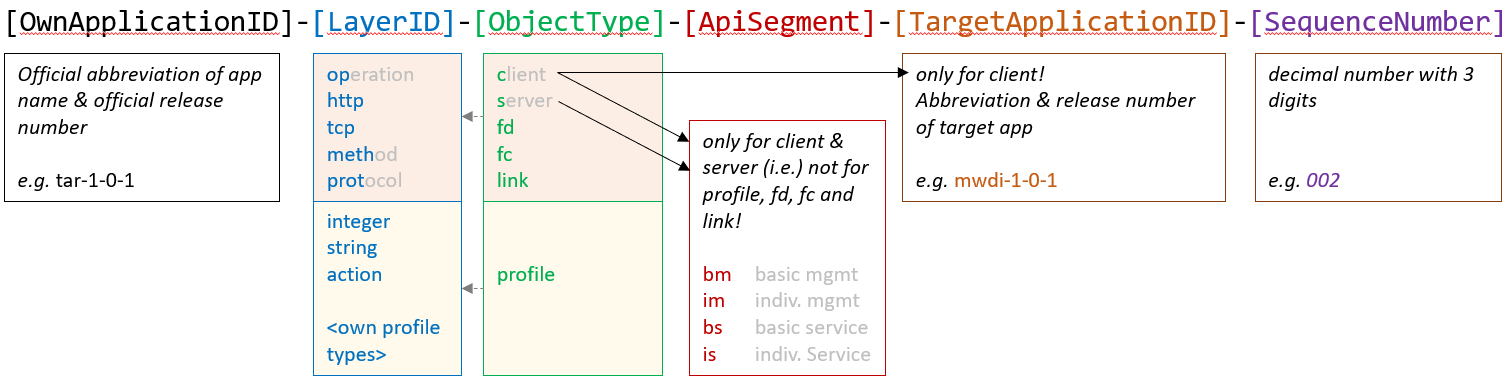
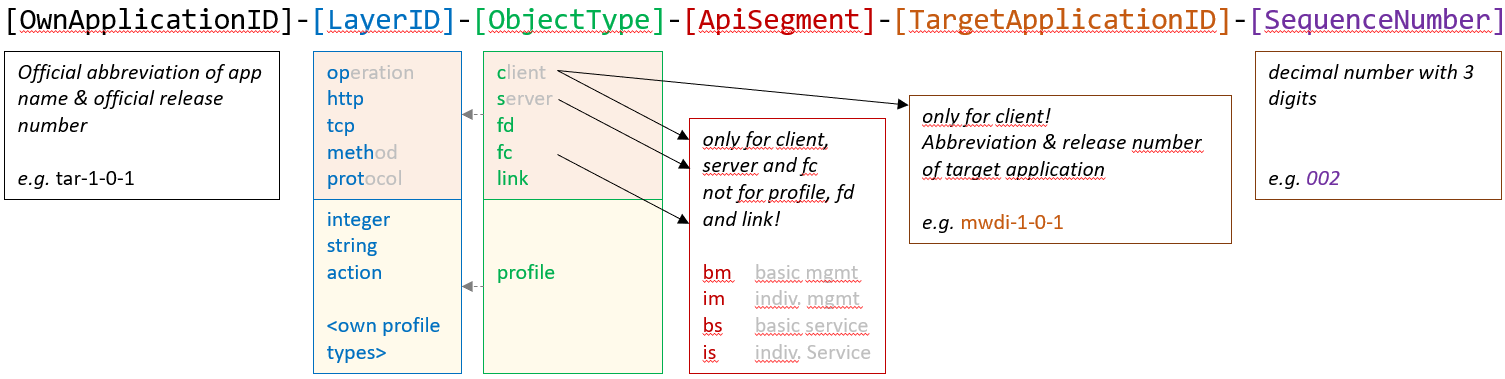
FC gets ApiSegment too

diff --git a/doc/ElementsApplicationPattern/Names/StructureOfUuids/StructureOfUuids.md b/doc/ElementsApplicationPattern/Names/StructureOfUuids/StructureOfUuids.md
@@ -56,7 +56,7 @@ This results in four categories:
 - is = Individual Services, which are individual to this application  
 
 (Now, it's clear why (almost) all UUIDs inside the ApplicationPattern are containing either bm or bs.)  
-UUIDs of Profile, ForwardingDomain, ForwardingConstruct and Link don't identify an ApiSegment.  
+UUIDs of Profile, ForwardingDomain and Link don't identify an ApiSegment.  
 
 **TargetApplicationID**  
 This application identifier relates to the application that is connected by the described client interface object.  
@@ -76,5 +76,5 @@ Counting is decimal.
 | ro-1-0-0-op-s-bm-004 | OperationServer (for /v1/end-subscription) inside the RegistryOffice release 1.0.0 |  
 | ol-1-0-0-op-c-bm-ro-1-0-0-010 | OperationClient (for /v1/relay-server-replacement) that is addressing the RegistryOffice release 1.0.0 inside the OamLog release 1.0.0 |  
 | ol-1-0-0-http-c-bm-alt-1-0-0-000 | HttpClient that is addressing the ApplicationLayerTopology release 1.0.0 inside the OamLog release 1.0.0 |  
-| aa-1-0-0-op-fc-005 | ForwardingConstruct on the OperationLayer inside the AdministratorAdministration release 1.0.0 |  
+| aa-1-0-0-op-fc-bm-003 | ForwardingConstruct for basic management tasks on the OperationLayer inside the AdministratorAdministration release 1.0.0 |  
 | eatl-1-0-1-integer-p-000 | Profile storing an Integer value inside the ExecutionAndTraceLog release 1.0.1 |  
